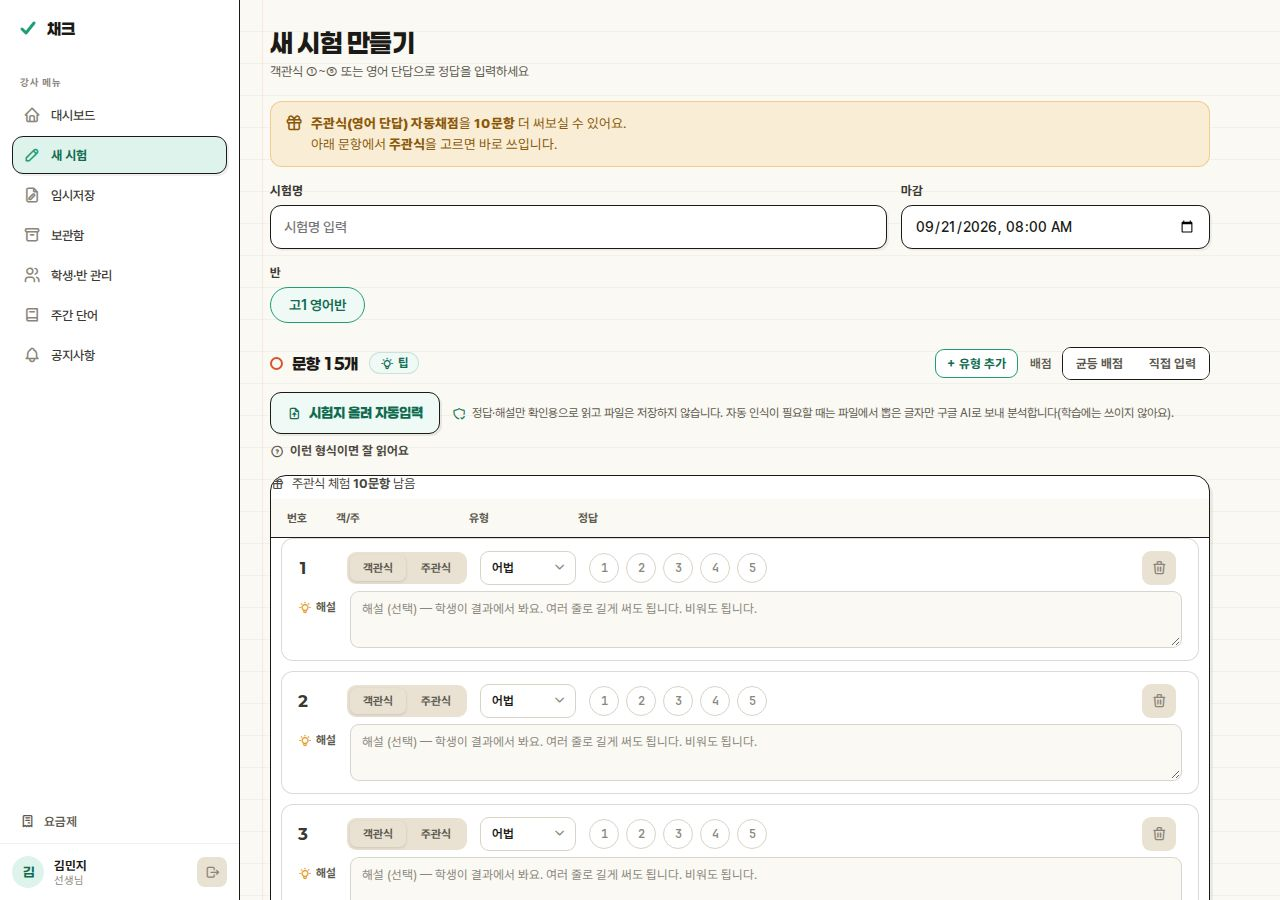
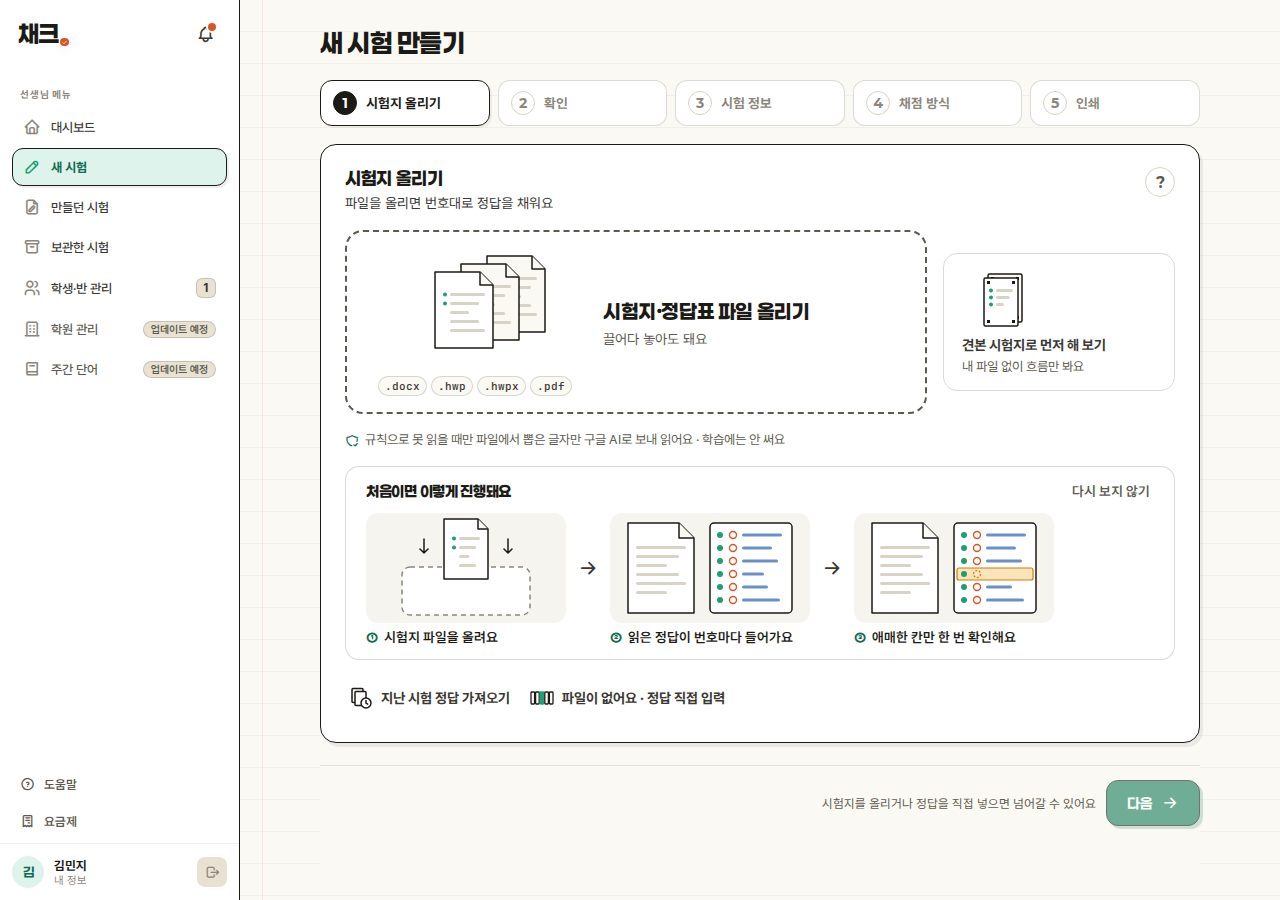
홈 v3 — 앱 화면 캡처 최신화(채크 리얼 1.2.0 a6ebb56c · 개발 DB 데모) · 02 패널에 「스캔한 시험지 넣기」 화면 · 학부모 카드 = 점수 흐름
데모 이름표(반·시험·학원 이름)만 화면에서 정리해 찍음 — 숫자·기능은 그대로.

Claude-Session: https://claude.ai/code/session_01P8TE7FjAajonVcPviqzjgc

diff --git a/index.html b/index.html
@@ -9,6 +9,7 @@
 <meta property="og:description" content="수수(SooSoo)는 학원 시험지 자동채점 앱 채크를 만듭니다. 앱 소개와 이용약관·개인정보처리방침, 사업자 정보를 한곳에 둡니다.">
 <link rel="preload" href="/assets/fonts/Paperlogy-8-sub.woff2" as="font" type="font/woff2" crossorigin>
 <link rel="preload" href="/assets/fonts/Pretendard-sub.woff2" as="font" type="font/woff2" crossorigin>
+<!-- 앱 화면 캡처 = 채크 리얼 웹 a6ebb56c(1.2.0) 개발 빌드 · 개발 DB 데모 계정 · 2026-10-30 · 데모 이름표(반·시험 이름)만 화면에서 정리해 찍음 -->
 <!-- 홈 v3(2026-10-30 · doc/디자인_방향.md §6-5) = 채크 홍보 랜딩. 문구는 라이브 /chaeck/ 마케팅 승인 문구 그대로(ASK-003 답이 오면 교체) · 사진은 사장님 원본(합성 0) · 스크립트 0 -->
 <style>
 @font-face{font-family:'Pretendard';font-weight:100 900;font-display:swap;src:url('/assets/fonts/Pretendard-sub.woff2') format('woff2')}
@@ -121,7 +122,7 @@ a{color:inherit}
 .q i{width:15px;height:15px;border-radius:50%;box-shadow:inset 0 0 0 1.5px #b9b3a6}
 .q i.on{background:var(--ink);box-shadow:none}
 .ph{align-self:end;width:46%;border-radius:22px 22px 0 0;padding:6px 6px 0;background:#1B1A16;margin-top:26px}
-.ph img{display:block;width:100%;height:auto;border-radius:16px 16px 0 0;aspect-ratio:390/420;object-fit:cover;object-position:top}
+.ph img{display:block;width:100%;height:auto;border-radius:16px 16px 0 0;aspect-ratio:585/645;object-fit:cover;object-position:top}
 
 .facts{display:grid;grid-template-columns:repeat(3,minmax(0,1fr));gap:18px}
 .fact{display:flex;gap:14px;align-items:flex-start;padding:24px 24px;border-radius:18px;background:var(--card);box-shadow:0 0 0 1px var(--line);font-size:16px;font-weight:600;line-height:1.5}
@@ -277,6 +278,7 @@ a{color:inherit}
         </div>
         <div class="m">
           <img class="photo zoom" src="/chaeck/img/ai/H1.webp" alt="마킹한 시험지를 폰으로 찍는 손" loading="lazy">
+          <div class="float pop"><div class="win"><div class="bar"><i></i><i></i><i></i><span>chaeck.soosoo.kr</span></div><img src="/chaeck/img/teacher-scan-upload.jpg" alt="강사 화면 — 스캔한 시험지 넣기" loading="lazy"></div></div>
         </div>
       </article>
 
@@ -313,7 +315,7 @@ a{color:inherit}
         <div class="txt"><h3 class="disp">답은 문제 옆 번호에, 펜으로.</h3><p>학생은 문제 옆 번호에 펜으로 마킹해요. 학생이 폰으로 찍어 내도 돼요.</p></div>
       </article>
       <article class="card">
-        <div class="pic"><div class="ph"><img src="/chaeck/img/parent-result.jpg" alt="학부모 화면 — 자녀 결과" loading="lazy"></div></div>
+        <div class="pic"><div class="ph"><img src="/chaeck/img/parent-flow.jpg" alt="학부모 화면 — 점수 흐름" loading="lazy"></div></div>
         <div class="txt"><h3 class="disp">어디서 막히는지, 시험마다.</h3><p>유형별 정답률, 문항마다 낸 답, 점수 흐름. 우리 아이의 변화만.</p></div>
       </article>
     </div>
